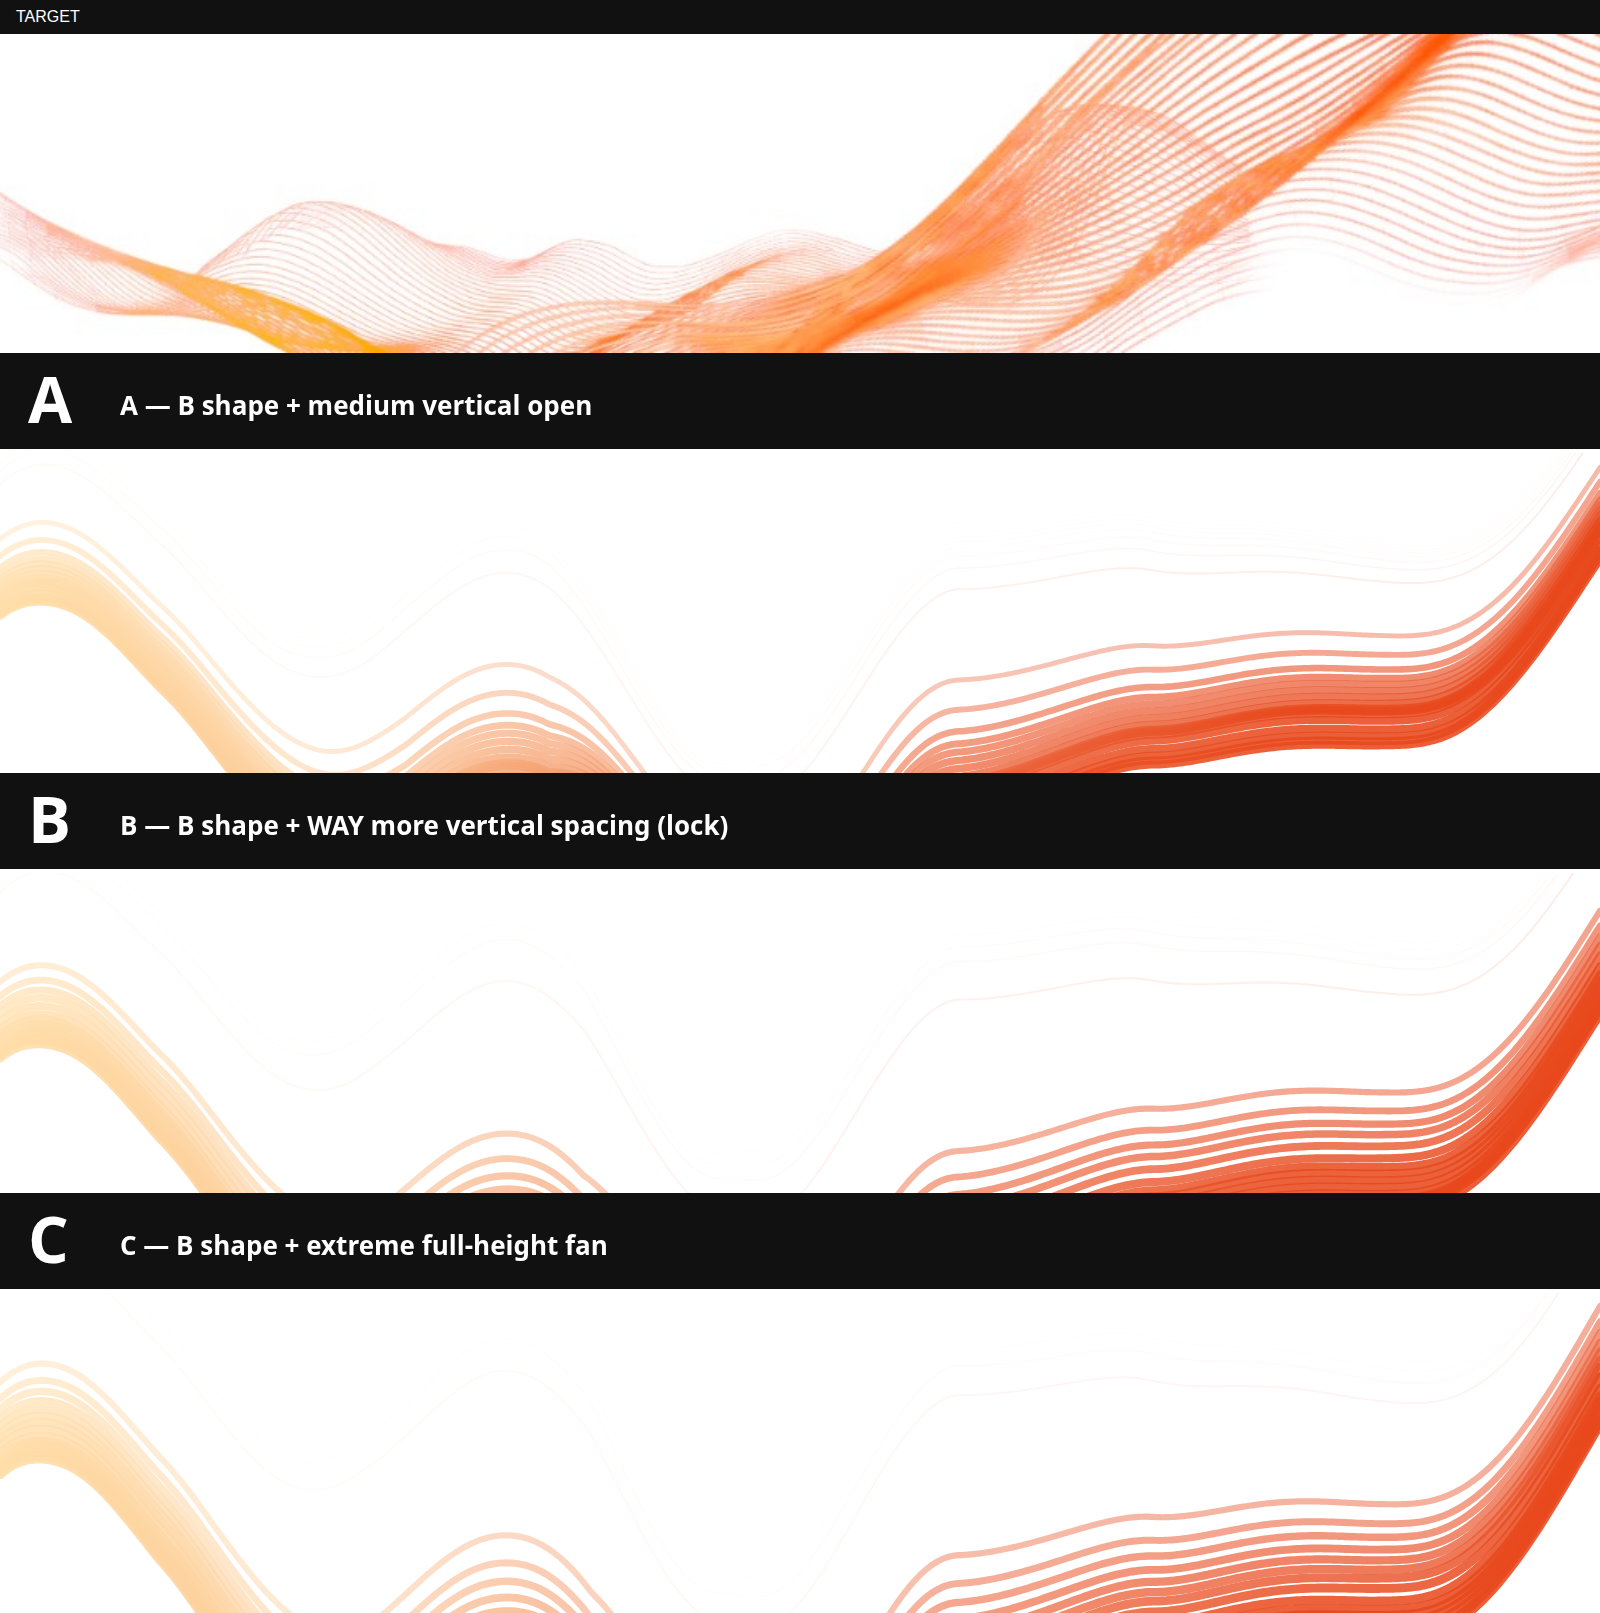
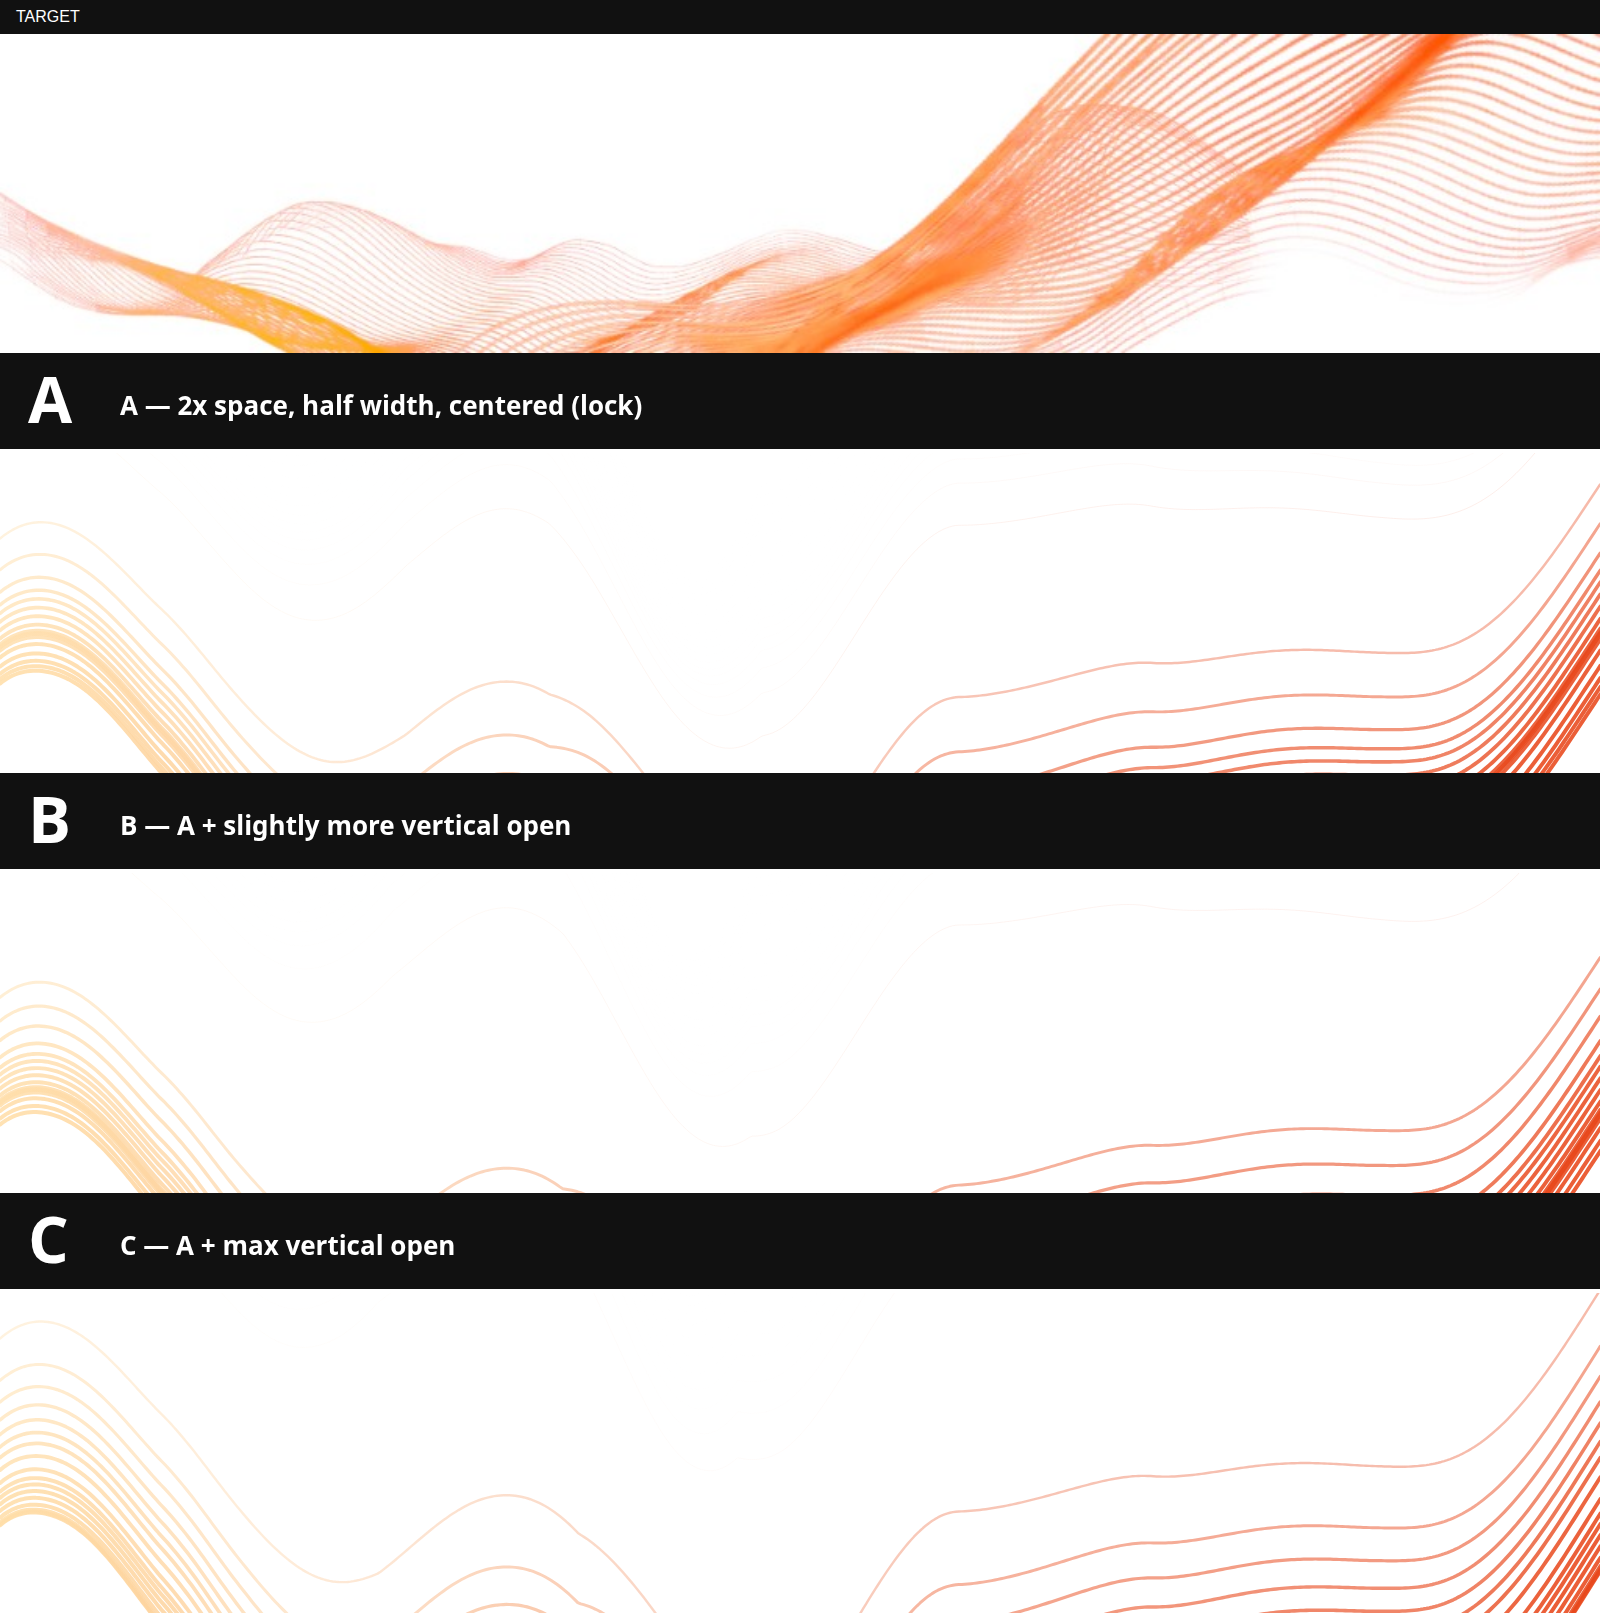
fix(lab): center A Twizzler, 2x vertical space, half line width (#CF-16)
Lock prior A silhouette with doubled screen-Y pack open, halved strokes,
and a mean-Y centering pass so the ribbon average sits mid-canvas.

diff --git a/apps/lab/src/twizzler.ts b/apps/lab/src/twizzler.ts
@@ -213,7 +213,7 @@ export function normalizeTwizzlerSettings(value: unknown): TwizzlerSettings {
     depth2Position: clamp(input.depth2Position, TWIZZLER_DEFAULTS.depth2Position, 0, 1),
     depth2Amount: clamp(input.depth2Amount, TWIZZLER_DEFAULTS.depth2Amount, 0, 2),
     depth2Width: clamp(input.depth2Width, TWIZZLER_DEFAULTS.depth2Width, 0.05, 0.75),
-    depthSpread: clamp(input.depthSpread, TWIZZLER_DEFAULTS.depthSpread, 0, 2.5),
+    depthSpread: clamp(input.depthSpread, TWIZZLER_DEFAULTS.depthSpread, 0, 4),
     depthLift: clamp(input.depthLift, TWIZZLER_DEFAULTS.depthLift, 0, 1),
     depthTerrain: Math.round(clamp(input.depthTerrain, TWIZZLER_DEFAULTS.depthTerrain, 0, 2)),
     twist: clamp(input.twist, TWIZZLER_DEFAULTS.twist, 0, 6),
@@ -667,7 +667,8 @@ export function buildTwizzlerLines(
         2.2;
       const rightEdge = Math.pow(smoothstep(0.35, 1, c.xT), 1.1);
       // Explicit SCREEN-Y stack: fibers spaced vertically by depthSpread (this is the pack open).
-      const verticalOpen = 0.95 + settings.depthSpread * 0.55;
+      // 2x open vs prior A pack so individual ribbons read clearly separated.
+      const verticalOpen = (0.95 + settings.depthSpread * 0.55) * 2;
       const stackY = across * halfW * verticalOpen;
       // Far fibers still sit lower on the right.
       const farDownStack = -across * halfW * rightEdge * (0.25 + settings.depthLift * 0.2) * (0.3 + far * 0.5);
@@ -696,9 +697,27 @@ export function buildTwizzlerLines(
       opacity: Math.min(0.92, settings.opacity * visibility),
       color,
       nearness: midNear,
-      strokeWidth: Math.max(0.35, settings.lineWidth * twizzlerStrokeWidthScale(midNear)),
+      strokeWidth: Math.max(0.2, settings.lineWidth * twizzlerStrokeWidthScale(midNear)),
       points,
     });
+  }
+
+  // Vertically center the pack so the average fiber sits mid-canvas.
+  let ySum = 0;
+  let yCount = 0;
+  for (const line of lines) {
+    for (const point of line.points) {
+      ySum += point.y;
+      yCount += 1;
+    }
+  }
+  if (yCount > 0) {
+    const shift = pixelHeight * 0.5 - ySum / yCount;
+    for (const line of lines) {
+      for (const point of line.points) {
+        point.y += shift;
+      }
+    }
   }
 
   return { settings, lines };
@@ -750,7 +769,7 @@ export function renderTwizzler(
 
     context.strokeStyle = gradient;
     context.globalAlpha = Math.min(0.9, line.opacity);
-    context.lineWidth = Math.max(0.55, settings.lineWidth * widthScale);
+    context.lineWidth = Math.max(0.25, settings.lineWidth * widthScale);
     context.beginPath();
     context.moveTo(line.points[0].x, line.points[0].y);
     for (let index = 1; index < line.points.length; index += 1) {

diff --git a/apps/lab/src/controls/levaSchema.ts b/apps/lab/src/controls/levaSchema.ts
@@ -1501,7 +1501,7 @@ export function useEngineControls(
                 twizzlerDepthSpread: {
                   value: initialLabSettings.twizzler.depthSpread,
                   min: 0,
-                  max: 2.5,
+                  max: 4,
                   step: 0.01,
                   label: "Depth widen",
                 },
